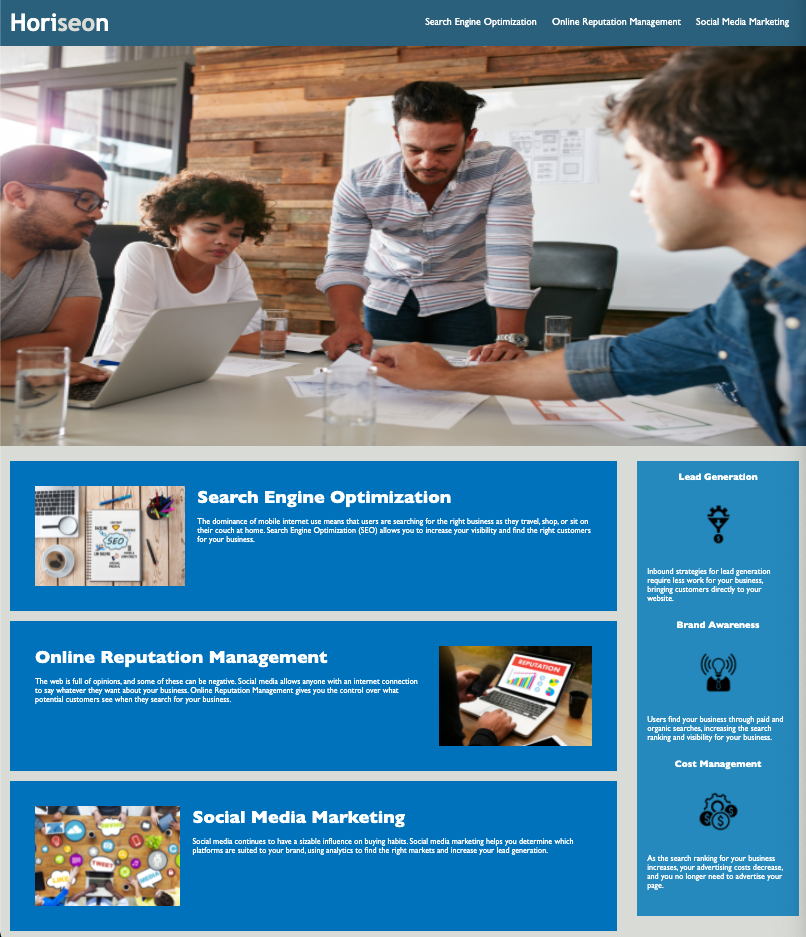
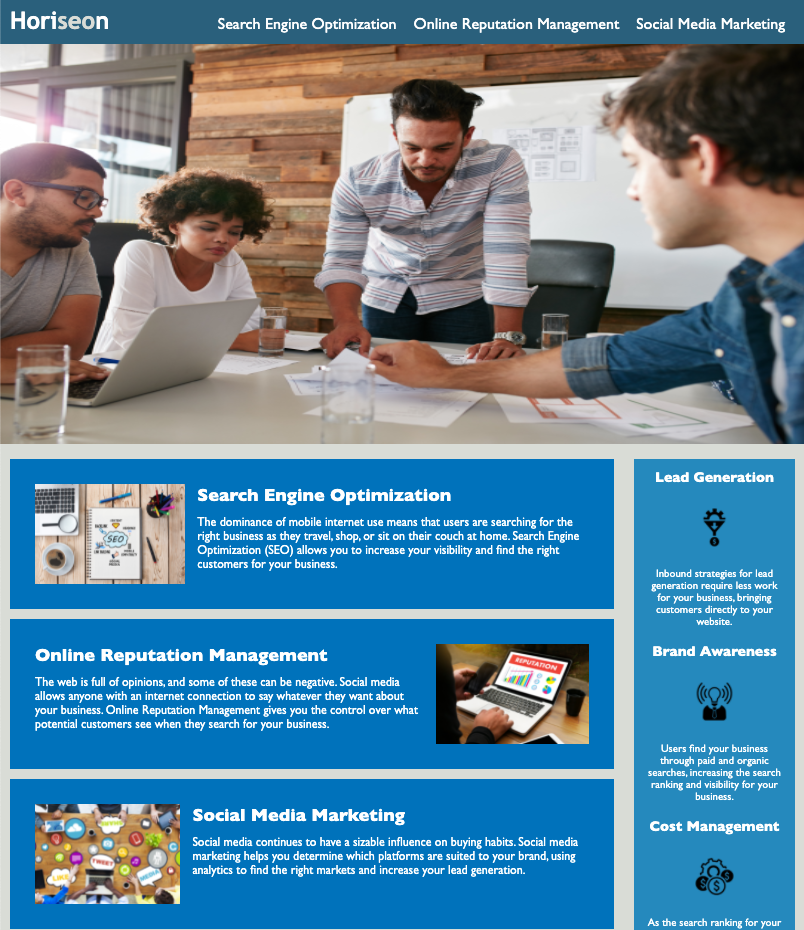
Consolidated css rules and took new ss shot readme

diff --git a/assets/css/style.css b/assets/css/style.css
@@ -56,6 +56,7 @@ a {
     margin-bottom: 25px;
     background-size: cover;
     background-position: center;
+    position: relative;
 }
 
 /* Main Content Section */
@@ -69,7 +70,7 @@ p {
     font-size: 16px;
 }
 
-#search-engine-optimization {
+main div {
     margin-bottom: 20px;
     padding: 50px;
     height: 300px;
@@ -78,49 +79,17 @@ p {
     color: #ffffff;
 }
 
-#online-reputation-management {
-    margin-bottom: 20px;
-    padding: 50px;
-    height: 300px;
-    font-family: 'Gill Sans', 'Gill Sans MT', Calibri, 'Trebuchet MS', sans-serif;
-    background-color: #0072bb;
-    color: #ffffff;
-}
-
-#social-media-marketing {
-    margin-bottom: 20px;
-    padding: 50px;
-    height: 300px;
-    font-family: 'Gill Sans', 'Gill Sans MT', Calibri, 'Trebuchet MS', sans-serif;
-    background-color: #0072bb;
-    color: #ffffff;
-}
-
-#search-engine-optimization img {
-    max-height: 200px;
-}
-
-#online-reputation-management img {
-    max-height: 200px;
-}
-
-#social-media-marketing img {
-    max-height: 200px;
-}
-
-#search-engine-optimization h2 {
+main h2 {
     margin-bottom: 20px;
     font-size: 36px;
 }
 
-#online-reputation-management h2 {
-    margin-bottom: 20px;
-    font-size: 36px;
+main img {
+    max-height: 200px;
 }
 
-#social-media-marketing h2 {
-    margin-bottom: 20px;
-    font-size: 36px;
+main p {
+    font-size: 1.5em;
 }
 
 .float-left {
@@ -142,55 +111,29 @@ aside {
     width: 20%;
     height: 100%;
     font-family: 'Gill Sans', 'Gill Sans MT', Calibri, 'Trebuchet MS', sans-serif;
+    font-size: 1.5em;
     background-color: #2589bd;
 }
 
-.benefit-lead {
+.benefit {
     margin-bottom: 32px;
     color: #ffffff;
 }
 
-.benefit-brand {
-    margin-bottom: 32px;
-    color: #ffffff;
-}
-
-.benefit-cost {
-    margin-bottom: 32px;
-    color: #ffffff;
-}
-
-.benefit-lead h3 {
+.benefit h3 {
     margin-bottom: 10px;
     text-align: center;
 }
 
-.benefit-brand h3 {
-    margin-bottom: 10px;
+.benefit img {
+    display: block;
+    margin: 5px auto;
+    max-width: 150px;
+}
+
+.benefit p {
+    font-size: .9em;
     text-align: center;
-}
-
-.benefit-cost h3 {
-    margin-bottom: 10px;
-    text-align: center;
-}
-
-.benefit-lead img {
-    display: block;
-    margin: 10px auto;
-    max-width: 150px;
-}
-
-.benefit-brand img {
-    display: block;
-    margin: 10px auto;
-    max-width: 150px;
-}
-
-.benefit-cost img {
-    display: block;
-    margin: 10px auto;
-    max-width: 150px;
 }
 
 /* Footer Section */
@@ -202,5 +145,5 @@ footer {
 }
 
 footer h2 {
-    font-size: 20px;
+    font-size: 2.3em;
 }

diff --git a/index.html b/index.html
@@ -61,7 +61,7 @@
 
         <!-- Side Bar Content-->
         <aside>
-            <div class="benefit-lead">
+            <div class="benefit">
                 <h3>Lead Generation</h3>
                 <img src="./assets/images/lead-generation.png" alt=""/>
                 <p>
@@ -69,7 +69,7 @@
                 </p>
             </div>
 
-            <div class="benefit-brand">
+            <div class="benefit">
                 <h3>Brand Awareness</h3>
                 <img src="./assets/images/brand-awareness.png" alt=""/>
                 <p>
@@ -77,7 +77,7 @@
                 </p>
             </div>
 
-            <div class="benefit-cost">
+            <div class="benefit">
                 <h3>Cost Management</h3>
                 <img src="./assets/images/cost-management.png" alt=""/>
                 <p>
